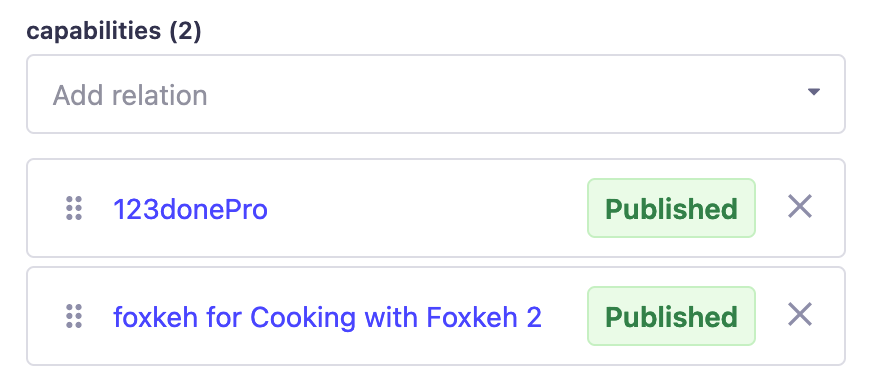
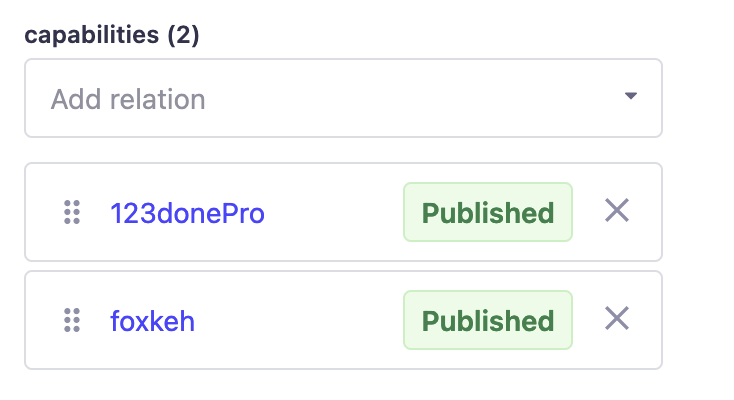
chore(docs): Update example for bundle capabilities

diff --git a/docs/relying-parties/reference/sub-plat-strapi.md b/docs/relying-parties/reference/sub-plat-strapi.md
@@ -83,7 +83,7 @@ Each tiered plan should have its own Offering with the product name and tier lev
 
 In Offering, include the capabilities for the product in the Capabilities field.
 
-For example, in the "123 Foxkeh" Offering below, the capabilities "123donePro" (for 123 Done Pro Plus) and "foxkeh for Cooking with Foxkeh 2" (for Cooking with Foxkeh 2) are included in the Capabilities field.
+For example, in the "123 Foxkeh" Offering below, the capabilities "123donePro" (for 123 Done Pro Plus) and "foxkeh" (for Cooking with Foxkeh) are included in the Capabilities field.
 
 <img src={require('../../assets/subplat-strapi-bundle.png').default} alt="Bundle" width="500" />
 
